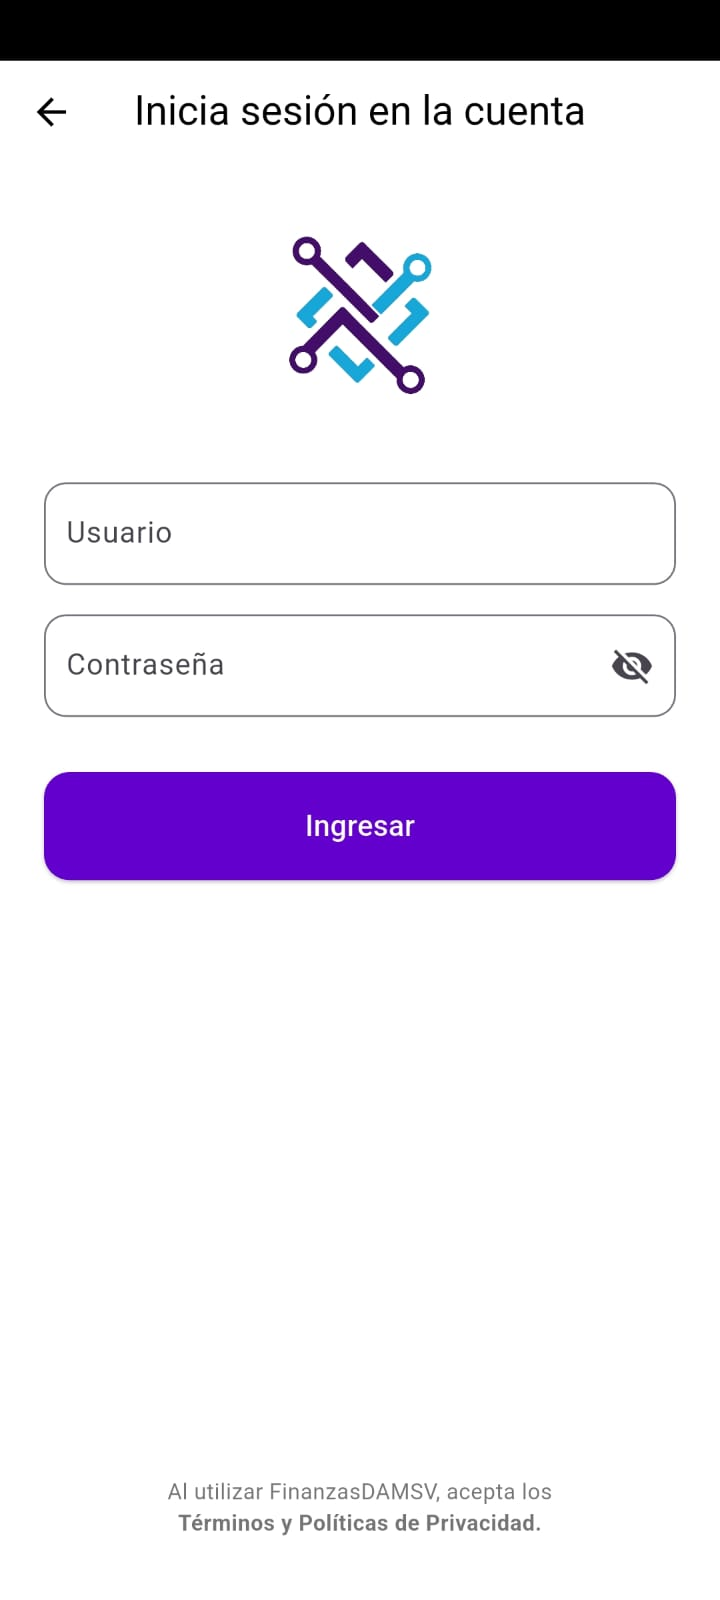
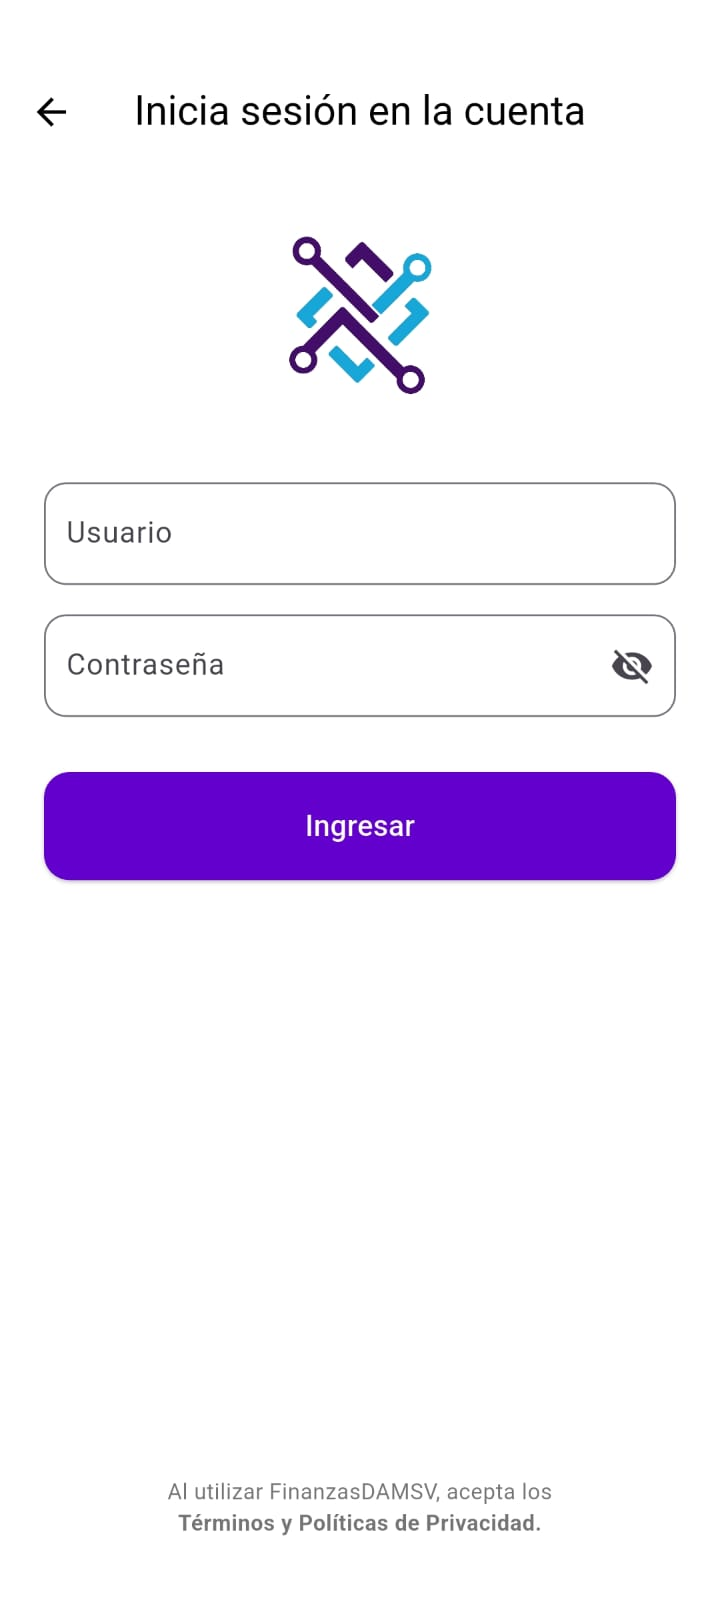
:recycle: update: notch UI Overlay. :memo: update: README.md and img.

Changed region(s): [[0.0, 0.0, 1.0, 0.0625]]

diff --git a/balanzas_personales_dam/lib/main.dart b/balanzas_personales_dam/lib/main.dart
@@ -7,7 +7,17 @@ import 'package:flutter/services.dart';
 
 void main() async {
   WidgetsFlutterBinding.ensureInitialized();
-  SystemChrome.setEnabledSystemUIMode(SystemUiMode.immersiveSticky);
+  SystemChrome.setEnabledSystemUIMode(SystemUiMode.edgeToEdge);
+
+  SystemChrome.setEnabledSystemUIMode(
+    SystemUiMode.immersiveSticky,
+    overlays: [],
+  );
+
+  SystemChrome.setSystemUIOverlayStyle(const SystemUiOverlayStyle(
+    statusBarColor: Colors.transparent,
+    systemNavigationBarColor: Colors.transparent,
+  ));
   await initializeDateFormatting('es_ES', null);
   //final prefs = await SharedPreferences.getInstance();
   //await prefs.clear();
@@ -20,17 +30,23 @@ class MainApp extends StatelessWidget {
 
   @override
   Widget build(BuildContext context) {
-    return MaterialApp(
-      title: 'Mis Finanzas',
-      theme: ThemeData(primarySwatch: Colors.blue),
-      home: WelcomeScreen(),
-      locale: const Locale('es', 'ES'),
-      supportedLocales: const [Locale('es', 'ES'), Locale('en', 'US')],
-      localizationsDelegates: const [
-        GlobalMaterialLocalizations.delegate,
-        GlobalWidgetsLocalizations.delegate,
-        GlobalCupertinoLocalizations.delegate,
-      ],
+    return AnnotatedRegion<SystemUiOverlayStyle>(
+      value: const SystemUiOverlayStyle(
+        statusBarColor: Colors.transparent,
+        statusBarIconBrightness: Brightness.light,
+      ),
+      child: MaterialApp(
+        title: 'Mis Finanzas',
+        theme: ThemeData(primarySwatch: Colors.blue),
+        home: WelcomeScreen(),
+        locale: const Locale('es', 'ES'),
+        supportedLocales: const [Locale('es', 'ES'), Locale('en', 'US')],
+        localizationsDelegates: const [
+          GlobalMaterialLocalizations.delegate,
+          GlobalWidgetsLocalizations.delegate,
+          GlobalCupertinoLocalizations.delegate,
+        ],
+      ),
     );
   }
 }
